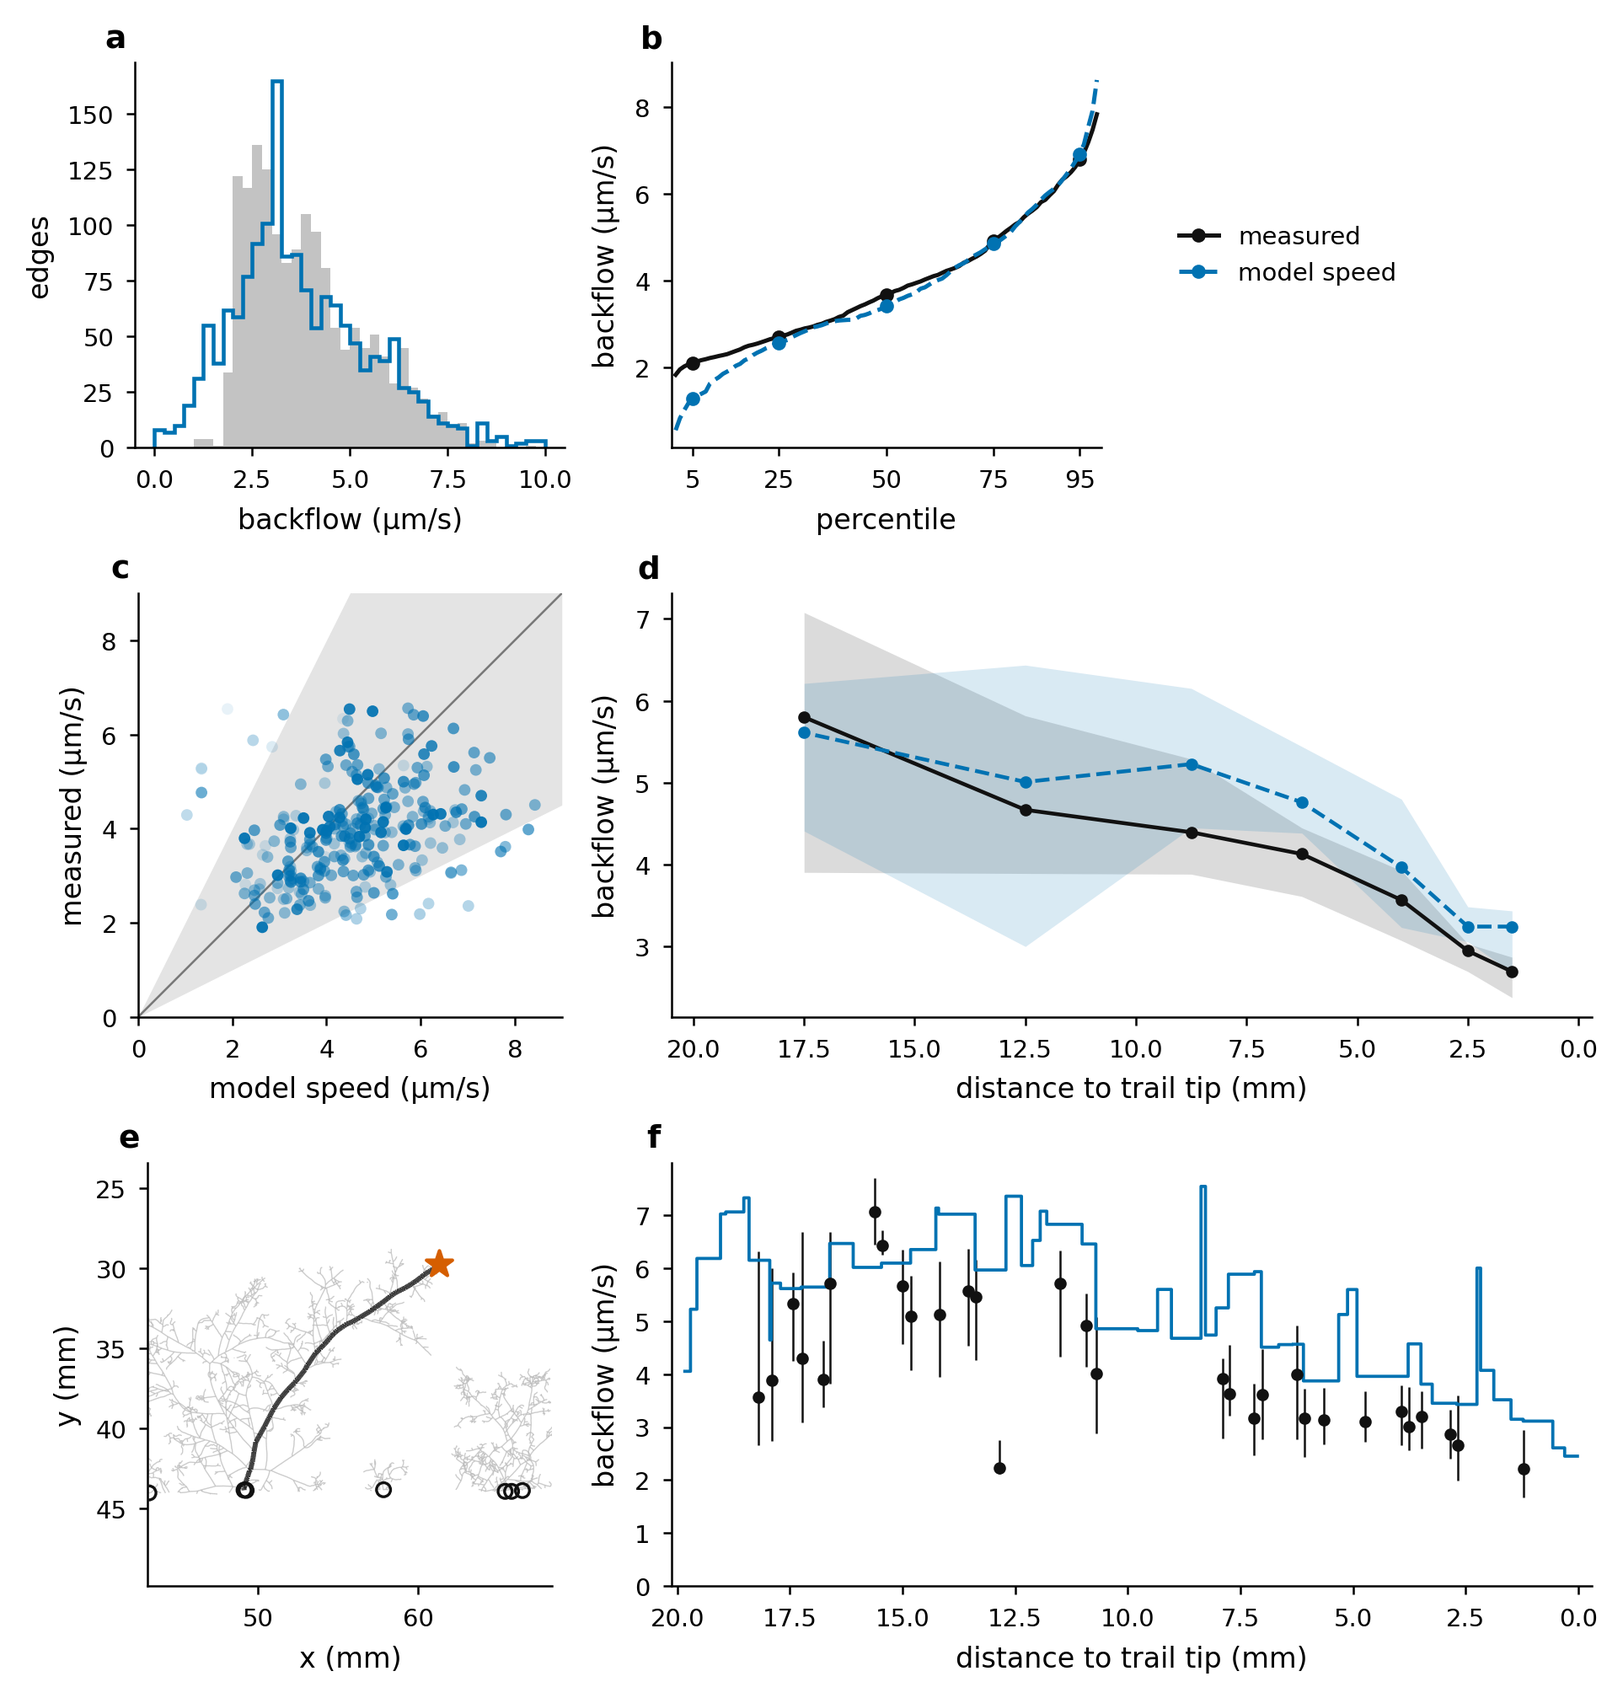
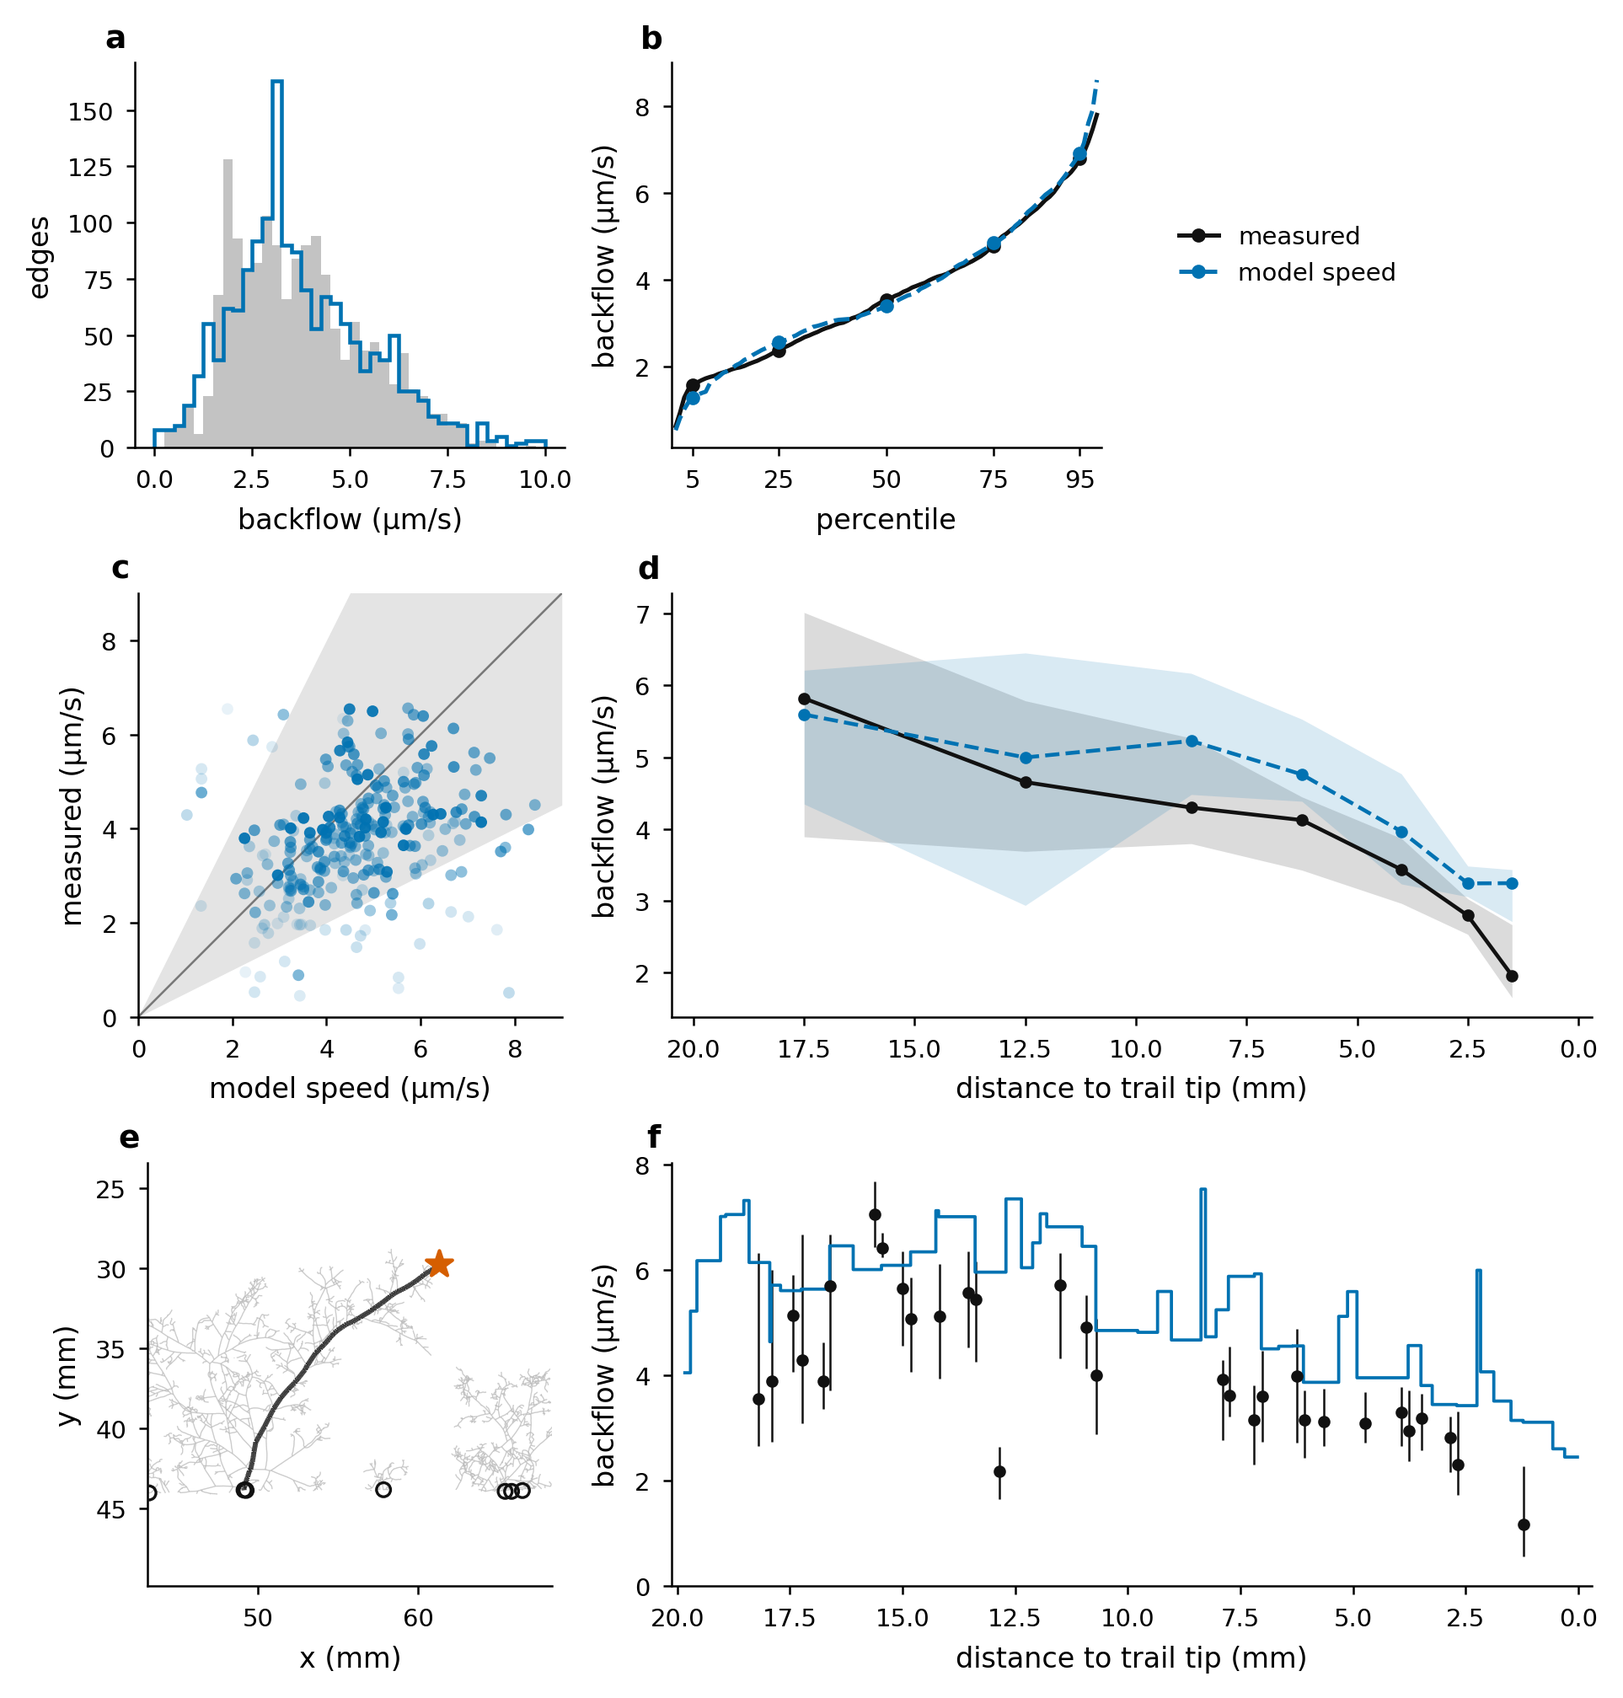
Final model locked in (global solve, GIMF motors and routing, a >= 0.8 b, theta 0.05, tip falloff): Fig 5 image replaced, superseding notes in main text, Methods and SI variants, caption numbers listed

diff --git a/01_Article_MainText.tex b/01_Article_MainText.tex
@@ -228,6 +228,7 @@ We synthesize the above results into a minimal model that explains the observed 
 % NOTE (13 Oct, Simon: describe the model's implementation in general terms here, with the simple choices; variants go to SI \nameref{subsec:si_model_variants}). Steps as implemented (Methods, \nameref{subsec:transport_model}): (1) demand: the hypha grown over the next four network frames, pi (D/2)^2 L / Delta t per piece, shared among the growing tips it grows from, at 0.26 volumes of lipid per volume grown; (2) routing: each tip's demand passed back up the growth graph to the roots, split equally where hyphae merge, giving the lipid current J on every edge; (3) motors run the way each hypha grew at a constant v0 = 3 um/s (measured to-tip median 2.95 um/s); (4) annulus: lipid share theta = 0.05 of an annulus at v0 carries J, a^2 = b^2 - J / (pi v0 theta), a >= 0.8 b; (5) motor stream q_s = pi v0 [(1 - theta)(b^2 - a^2) + a^2]; (6) backflow: pressure solve on the core Poiseuille conductances with the divergence of q_s as sources, roots tied to a common reservoir, a 10 mm core resistance for flow switching hyphae at junctions; (7) read-out: to-root speed |q_c| / (pi a^2).
 % NOTE (13 Oct, scores of the simple choices; transport_paper fig_outputs/model_grid/junction/const_even_j10000, constant v0 3 um/s, even split, weakly coupled return 10 mm, physical inputs; 15 sessions, 5 plates, 1,590 bright-field edges): within 2x of the measured to-root speed 85.3 % (tree 85.7, loop 85.2), median fold error 1.37, median model/measured 1.03; Spearman rho tree 0.10, loop 0.20. Against the offset tip profile (current tables, split_even_j10000): within 2x 86.5 % (tree 87.9, loop 86.3), fold 1.35, rho tree 0.41, loop 0.29. The constant speed keeps the level but loses most of the ranking on tree edges, and within 1 mm of a tip (86 edges) over-predicts the to-root speed by a median 1.58 (offset 1.25). Model 5-95 % range 2.89-4.60 um/s against measured 1.52-6.78.
 % NOTE (14 Oct): Simon switched back to the tip falloff (supersedes 'constant v0' in the two notes above; the even split stays). Reason: the falloff fitted on full-flow edges only (Bayesian, edge streak medians; v_inf 3.09, v_tip 2.15 um/s, ell 1.9 mm) equals the constants in use (3.10 / 2.14 / 1.71 mm), and predicts full-flow edges best. Main model (split_even_j10000, 10 um minimum video edge), full-flow edges (1,284): to-root within 2x 89.1 % (tree 87.6, loop 89.3), Spearman 0.32 / 0.32, to-tip median fold error 1.085; with the falloff fitted on all edges (v_inf 2.94) 87.1 %; constant 3 um/s 88.1 % but Spearman tree 0.00. Sparse flow (197 edges, 13 % of filmed edges; thin hyphae, ~1.8 um/s both ways, no to-root excess) is a regime the model does not describe: within 2x 74.1 %, to-root over-predicted x1.65. Figure: transport_paper manuscript/figures/figS_model_regimes.png (feat/flow-regime).
+% NOTE (14 Oct, final model choice, Simon; supersedes the model notes above where they differ): global pressure solve (no junction resistance); motors along the sign of the GIMF net flux (the growth-induced mass flow solve of the growth demand, Heaton 2010), outward from the roots on edges without net flux; lipid current = 0.256 x the GIMF flux (no even split); annulus from the lipid current with theta 0.05 and a >= 0.8 b; motor speed: tip falloff 3.10 / 2.14 um/s, 1.71 mm (= the full-flow fit); read-out |q_c| / (pi a^2), no width exponent. transport_paper fig_outputs/model_grid/junction/global_gimf_gimf, branch feat/flow-regime. 1,574 bright-field edges, 15 sessions: within 2x 77.6 % (full flow 79.2 %, sparse 67.0 %), median fold error x1.44; the modelled distribution matches the measured one (KS 0.045; 5/25/50/75/95th percentiles 1.27 / 2.56 / 3.40 / 4.85 / 6.91 vs 1.57 / 2.37 / 3.54 / 4.79 / 6.79 um/s). Why GIMF motors: growth-graph motors match the observed motor direction slightly better on loops (86 vs 81 %, 677 edges) but cut the upper half of the distribution (95th percentile 4.7 um/s, KS 0.23-0.25), because counter-oriented loop motors drain the return of the main routes (SI variants). Known limits: hyphae within ~1 mm of a tip are over-predicted (median 2.84 vs 2.13 um/s; measured to-root / to-tip ~1 there), sparse flow (13 % of filmed edges, thin hyphae, ~1.8 um/s both ways) is not described, and wide trunks are under-predicted (network widths compress the width contrast).
 
 % \subsubsection*{Motors toward the tip are ambiguous in a looped network with many tips}
 % Although the above results elucidate the mechanism for lipid translocation across the network, they do not provide a predictive framework for how lipid flux is distributed.
@@ -369,6 +370,7 @@ Vertical error bars: 25th–75th percentile of the measured velocity pixels of t
 \end{figure}
 % NOTE (14 Oct, Fig 5 split, Simon: Fig 5 becomes two figures; one needs a panel on the forward (to-tip) speed fit). Panel draft: transport_paper fig_outputs/forward_speed_bayes/fig.png (Working_notebooks/forward_speed_bayes.py, branch feat/forward-speed-bayes c098da4). Bayesian hierarchical fit of v(d) = v_inf - (v_inf - v_tip) e^(-d/ell) to the log median to-tip streak speed of each bright-field edge, weighted by that median's bootstrapped error from the edge's own streaks; edge and plate random effects (plate effects sum to zero). 1,495 edges, 300,127 streaks, 15 sessions, 5 plates; d = network distance to the nearest growing tip. Posterior median [95 % interval]: v_tip 2.18 [1.89, 2.40] um/s, v_inf 2.91 [2.83, 3.02] um/s, ell 1.84 [1.04, 3.58] mm; edge-to-edge spread 0.24 on log speed (about 27 %), plate effects -6 to +6 %. Only 82 edges lie within 1 mm of a tip and 7 within 250 um, so v_tip leans on the nearest few edges. Least-squares fits on edge medians (13 Oct): v_tip and v_inf move by about 0.1 um/s whichever plate is left out, ell 0.75-2.5 mm; fitted per plate alone ell runs to the bound in two plates. Falloff to 0 (v0 (1 - e^(-d/lambda))) gives lambda ~140 um and fits worse held out (median fold 1.156 vs 1.140 for the offset).
 % NOTE (7 Oct, Fig 5 caption numbers): fig_plug_model.png was committed 30 Sep as '1,566 edges in 15 sessions'; the caption says 1,248 edges in 11 sessions. After the 3 Oct no-cut rebuild (transport_paper manuscript/figs4-6_rebuild_2026-10-03.md) the physical-input global solve gives 1,590 edges, fold error x1.45, 77 % within 2x, and 79 % of trail segments within 2x (caption: 84 %). The bin counts and the 97 % in (f) were not re-derived.
+% NOTE (14 Oct): figures/fig_plug_model.png replaced by the final model (global solve, GIMF motors and routing, a >= 0.8 b, theta 0.05, tip falloff; current tables with the 10 um minimum video edge; model_accuracy_two_models.py --plug-only --oriented --physical --alpha-by-error on transport_paper fig_outputs/model_grid/junction/global_gimf_gimf, branch feat/flow-regime). Caption numbers to update: (a) 1,574 edges in 15 sessions (caption: 1,248 in 11); (c) 276 trail segments within 10 mm of the tip, 87 % within 2x, bias 1.21 (caption: 232 segments, 84 %); (d) bins 0-1 ... 15-20 mm hold 3, 14, 19, 66, 73, 101, 133, 88 segments; (f) 31 segments, 94 % within 2x, median |log2 error| 0.32 (caption: 97 %). The model sits ~0.5-0.9 um/s above the measured trail medians at 2.5-12.5 mm and 3.3 vs 2.0 um/s within 1 mm of the tip (a known limit, see the model note in the model section). The caption's '(blue)' and panel letters still fit.
 
 \subsubsection*{The network model reproduces the measured speeds and their spatial pattern}
 Could our conceptual model at the network level quantitatively explain the variation of speeds observed throughout the networks (Fig.\ref{fig:hyphal_profiling}f)?

diff --git a/05_Article_Methods.tex b/05_Article_Methods.tex
@@ -304,10 +304,12 @@ Growth needs $\lambda = 0.26$ volumes of lipid per volume grown (dry-mass fracti
   \item \textbf{Routing.}
 Each tip's lipid demand is passed back up the growth graph to the roots, split between merging hyphae by cross-sectional area (SI, \nameref{subsec:si_demand_split}).
 % NOTE (12 Oct): Simon switched the main model to an even split between merging hyphae (the split rule does not change the scores; transport_paper demand_split_compare.py, branch feat/demand-split-compare). Main model, 15 sessions, within 2x of the measured to-root speed: conductance (b^4/L) / area / even = tree 87.9 / 87.9 / 87.9 %, loop 85.4 / 85.9 / 86.3 %; Spearman rho tree 0.41 all, loop 0.29 all; motor direction agrees with the observed one on 93.3 % of 712 edges under all three; the split changes the lipid current on 26 % (even) and 44 % (conductance) of edges against area. 'by cross-sectional area' in the sentence above becomes 'equally'.
+% NOTE (14 Oct, final model, supersedes the 12 Oct even-split note): routing is the GIMF solve: the lipid current on an edge is 0.256 x its GIMF net flux (growth demand as sinks at the tips, roots as source, Poiseuille conductances; Heaton 2010), not demand passed up the growth graph; so the sentence above ('passed back up the growth graph ... split by cross-sectional area') becomes the GIMF routing. The split rules (conductance / area / even) are SI variants under growth-graph routing.
 The result is the lipid current $J$ on every edge.
   \item \textbf{Motor speed.}
 % NOTE (13 Oct): Simon: the main text commits to a constant v0 for now (and an equal demand split); the offset profile below becomes a variant in SI \nameref{subsec:si_model_variants}. Constant v0 = 3 um/s (constants.v0) with the even split and the 10 mm junction resistance: within 2x 85.3 % (offset 86.5 %), Spearman rho tree 0.10 (0.41), loop 0.20 (0.29); run const_even_j10000.
 % NOTE (14 Oct): superseded: Simon switched back to the offset profile below (it equals the falloff fitted on full-flow edges only: 3.09 / 2.15 um/s / 1.9 mm); constant v0 is a variant in the SI. Full-flow edges within 2x 89.1 % (constant 88.1 %).
+% NOTE (14 Oct, final model): motor DIRECTION follows the sign of the GIMF net flux on each edge (outward from the roots by network distance where the GIMF flux is zero), not the growth graph; 'Motors run the way each hypha grew' becomes this. The speed profile below stays. Growth-graph direction is an SI variant: it matches the observed motor direction better on loop edges (86 vs 81 %) but cuts the upper half of the to-root distribution.
 Motors run the way each hypha grew, at
   \[
     v(d) = v_\infty - (v_\infty - v_{\mathrm{tip}})\, e^{-d/\ell},
@@ -334,6 +336,7 @@ The volume that growth consumes is not a sink in this solve; it enters only thro
 At every junction the legs are paired by straightness into through-passes (a pair turning by less than 60\textdegree, directions taken 60~$\mu$m along each leg); flow straight through a pass is free, while flow that switches from one hypha to another crosses a resistance equal to 10~mm of core of radius 4~$\mu$m (\texttt{junction\_coupling.py}).
 The two limits of this coupling are the global solve~\cite{heaton_growth-induced_2010}, with no cost to switch, and the conveyor, in which every edge carries back its own motor stream.
 % NOTE (14 Oct): Simon: keep the global pressure solve (no junction resistance); neither the conveyor nor the 10 mm junction coupling gives the measured spread of speeds. Current tables (tip falloff, even split, a >= 0.8 b, theta 0.05, 10 um minimum video edge; transport_paper fig_outputs/model_grid/junction/global_even vs split_even_j10000), full-flow edges (1,284): log-SD of the to-root speed model 0.63 (global) / 0.18 (junction) vs measured 0.47; 5-95 % model 0.9-4.7 / 2.6-4.6 vs measured 1.8-6.9 um/s; within 2x 73.0 / 89.1 % (tree 87.6 / 87.6, loop 70.6 / 89.3); Spearman tree 0.33 / 0.32, loop 0.04 / 0.32. Under the global solve 86 % -> 42 % of network edges return their own stream (+-5 %): the extra spread is mostly slow loop edges (circulation), and the fast measured tail is not reached by either (median far from tips, > 5 mm: measured 4.35, global 3.09, junction 3.18 um/s). The junction paragraph above then goes or moves to the SI variants.
+% NOTE (14 Oct, final model): numbers of the note above were for growth-graph motors and the even split; the final model (GIMF motors and routing, global solve, a >= 0.8 b, theta 0.05) gives within 2x 77.6 % on 1,574 edges and matches the measured to-root distribution (KS 0.045). The junction-coupling paragraph above moves to SI \nameref{subsec:si_model_variants}.
   \item \textbf{Read-out.}
 The backflow is what is measured: the distribution of to-root streak speeds on an edge, summarised by its median where one value is needed.
 The model's counterpart is the core flux over the area of the return lane, $|q_c| / (\pi r^2)$, with $r^2 = a^2 (11.64~\mu\mathrm{m} / D)^{0.7}$, at most $b^2$.

diff --git a/02_Article_Supplementary.tex b/02_Article_Supplementary.tex
@@ -224,12 +224,14 @@ This could explain why active transport mechanisms at high speeds are necessary 
 % NOTE (3, return coupling): global solve (no cost to switch hyphae at junctions; Heaton 2010) and the conveyor (each edge returns its own stream) are the two limits of the 10 mm junction resistance; numbers to take from transport_paper junction runs (growth_area_j3000 / j10000, global) when this section is written.
 % NOTE (4, return width exponent): |q_c| / (pi r^2), r^2 = a^2 (11.64 um / D)^0.7, fitted on the measured to-root speeds; dropped 12 Oct (physical inputs only): 87.5 vs 86.2 % within 2x, rho tree 0.44 vs 0.41, loop 0.34 vs 0.29 (1 Oct tables).
 % NOTE (5, motors as a force, in progress 13 Oct, transport_paper feat/force-motor-network): motor speed from a force balance against the solved pressure, v = v_max (1 - pi b^2 dp / (L k b)), one linear solve per network. First grid cell (v_max 6 um/s, b_half 4 um, offset main model as reference): to-tip speeds ~4.2 um/s everywhere and flat with tip distance, within 2x tree / loop 0.65 / 0.77; the rest of the grid is running. On single edges the per-edge force balance with lumen widths predicts the to-tip speed best of the forward models (section \nameref{subsec:si_forward_choices}).
+% NOTE (14 Oct, final model and the variants it was chosen over; all on the current tables, 1,574 bright-field edges, global pressure solve unless stated; transport_paper feat/flow-regime): main model = GIMF motors + GIMF routing, a >= 0.8 b, theta 0.05: within 2x 77.6 %, KS 0.045 (distribution matched). (6, motor direction / routing) growth-graph motors with GIMF, area or even routing: 75.5-75.8 % within 2x, KS 0.25, 95th percentile 4.7 vs 6.8 um/s; per edge the gain of GIMF motors is on edges where both directions agree (3.87 vs 3.17 um/s; fastest measured quarter within 2x 70 vs 51 %), not on the 263 edges where they disagree (observed direction sides with growth on 69 % of those); motor_direction_tail.py. (7, return) weakly coupled 10 mm with growth motors: 87.2 % within 2x but spread too small (log-SD 0.18 vs 0.47); global with growth motors 73 %. (8, supply-set lane instead of the demand annulus, growth motors) constant a/b 0.80-0.93: 77.9-79.4 % on full flow, KS 0.16-0.25; width law x = 0.30 (w/10 um)^gamma: 80.1-81.4 %; none reproduces the rise of the measured to-root / to-tip ratio with lumen width (0.93 -> 1.80) or along trails; supply_compare.py, fig5_variants.py. (9, core floor) a >= 0.9 b: trail bias 1.10 (vs 1.21), near-tip 2.61 vs 2.84 um/s (measured 2.13), but KS 0.093. (10, regimes) sparse flow (streak density >= 0.27 / um / s, from Simon's blind labels; 13 % of filmed edges) is over-predicted x1.6-1.7 by every variant; on full-flow edges the main model is 79.2 % within 2x. (11, demand vs measured lipid transport) Nile Red to-tip flux barely follows routed demand (elasticity 0.02-0.04 over 2.7 decades of demand).
 
 \namedsubsection{Splitting the lipid demand between merging hyphae}{subsec:si_demand_split}
 % NOTE (12 Oct): section text to be written by Simon; cited from the Methods (transport model, demand split). Purpose (Simon): show that the choice of split rule does not matter here, so the main model uses the simplest (even).
 % NOTE (1, set-up): main model (weakly coupled return, junction 10 mm, motors along the growth graph, a >= 0.8 b, theta 0.05, no return-width exponent), 15 sessions, scored against the bright-field to-root speed (224 tree edges, 1,366 loop edges). A tip's demand passes back up the growth graph; where hyphae merge it is divided by conductance b^4/L of each parent hypha, by area b^2, or equally. Tree edges have one path, so the rule cannot act there.
 % NOTE (2, source): transport_paper branch feat/demand-split-compare (commits 1173217, f89b893): fig_outputs/model_grid/run_grid_junction.sh split, Working_notebooks/demand_split_compare.py -> fig_outputs/model_grid/junction/split_compare.csv (run 12 Oct).
 % NOTE (3, beyond the table): where the model puts lipid has no relation to the moving Nile Red signal under any split (within-plate Spearman rho 0.00-0.01, 1,678 fluorescence edges, ~30 % of them get no model lipid); 53-56 % of the growth demand reaches a root under all three (the rest is stranded at non-root growth sources, set by the motor direction, not the split).
+% NOTE (14 Oct): the final main model routes the lipid by the GIMF solve (lipid current = 0.256 x GIMF flux) with GIMF-oriented motors, so this split comparison (growth-graph routing, junction coupling) is now about a variant; its point stands: the split rule does not change the scores.
 \begin{table}
 \centering
 \begin{tabular}{lccc}
